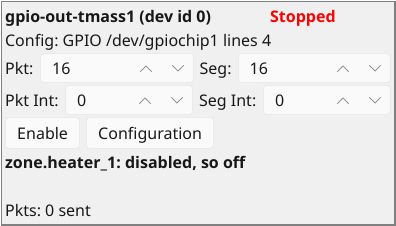
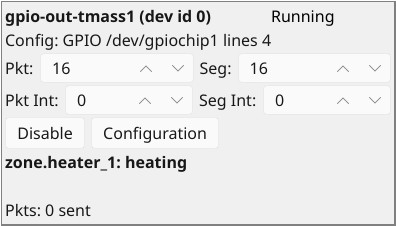
Install no repeated or unused screenshots
rpmlint found two pairs of identical pictures in the tcspecial package.
Stage 5 of "Building a Vehicle" draws as stage 4 does, and the guide
shows no figure of it: screenshots.sh now draws only the stages the
guide has a figure for, so stages 5, 8 and 10 are no longer made or
installed. A disabled heater switched on looks as it did before, so the
tcssim manual says so rather than showing the same panel twice.

Also wrap two lines of fprime/Makefile at 80 columns.

diff --git a/docs/tcssim.html b/docs/tcssim.html
@@ -1213,24 +1213,22 @@ zone's <tt class="docutils literal">heater_1</tt>, so its line names that heater
 button is its power -- it is off whatever it is sent.</p>
 </div>
 </li>
-<li><div class="first figure">
-<img alt="The same panel after the vehicle has switched it on: still Stopped, still zone.heater_1: disabled, so off." src="shots/tcssim-heater-2.png" />
-<p class="caption">tcspecial's thermostat switches it on. Nothing changes on the panel or
-in the zone: a disabled heater stays off. What it was sent is kept.</p>
-</div>
+<li><p class="first">tcspecial's thermostat switches it on. Nothing changes on the panel or in
+the zone, so the panel is drawn as above: a disabled heater stays off.
+What it was sent is kept.</p>
 </li>
 <li><div class="first figure">
-<img alt="The same panel after Enable: Running in black, a Disable button, and the line zone.heater_1: heating." src="shots/tcssim-heater-3.png" />
+<img alt="The same panel after Enable: Running in black, a Disable button, and the line zone.heater_1: heating." src="shots/tcssim-heater-2.png" />
 <p class="caption"><tt class="docutils literal">Enable</tt> pressed. The <tt class="docutils literal">on</tt> it was sent is applied at once --
 <tt class="docutils literal">zone.heater_1: heating</tt> -- rather than at the thermostat's next
 decision, which comes only when the decision changes.</p>
 </div>
 </li>
 <li><div class="first figure">
-<img alt="The same panel after the vehicle has switched it off: Running, and the line zone.heater_1: off." src="shots/tcssim-heater-4.png" />
+<img alt="The same panel after the vehicle has switched it off: Running, and the line zone.heater_1: off." src="shots/tcssim-heater-3.png" />
 <p class="caption">The thermostat switches it off, and the line says
-<tt class="docutils literal">zone.heater_1: off</tt>. A
-heater sends nothing, so its <tt class="docutils literal">Pkts</tt> stays at nought throughout.</p>
+<tt class="docutils literal">zone.heater_1: off</tt>. A heater sends nothing, so its <tt class="docutils literal">Pkts</tt> stays
+at nought throughout.</p>
 </div>
 </li>
 </ol>

diff --git a/tcssim/src/shots.rs b/tcssim/src/shots.rs
@@ -515,12 +515,13 @@ fn screenshots() {
 
     let heater = scene.panel("gpio-out-tmass1").grown(1.0);
     scene.shoot("tcssim-heater-1.png", Some(heater), 1.0);
+    // Switched on while disabled, the panel is unchanged, so that is not
+    // drawn again.
     scene.drive("gpio-out-tmass1", 1);
-    scene.shoot("tcssim-heater-2.png", Some(heater), 1.0);
     scene.press("gpio-out-tmass1", "Enable");
-    scene.shoot("tcssim-heater-3.png", Some(heater), 1.0);
+    scene.shoot("tcssim-heater-2.png", Some(heater), 1.0);
     scene.drive("gpio-out-tmass1", 0);
-    scene.shoot("tcssim-heater-4.png", Some(heater), 1.0);
+    scene.shoot("tcssim-heater-3.png", Some(heater), 1.0);
 
     // Changing the sizes: a packet made smaller than its segment, and put
     // back. The popup that says so hangs under the panel's buttons and

diff --git a/docs/tcssim.rst b/docs/tcssim.rst
@@ -932,14 +932,11 @@ window, drawn without opening it.
       ``gpio-out-tmass2``'s says ``zone.heater_2`` -- and disabled -- its
       button is its power -- it is off whatever it is sent.
 
+#. tcspecial's thermostat switches it on. Nothing changes on the panel or in
+   the zone, so the panel is drawn as above: a disabled heater stays off.
+   What it was sent is kept.
+
 #. .. figure:: shots/tcssim-heater-2.png
-      :alt: The same panel after the vehicle has switched it on: still
-            Stopped, still zone.heater_1: disabled, so off.
-
-      tcspecial's thermostat switches it on. Nothing changes on the panel or
-      in the zone: a disabled heater stays off. What it was sent is kept.
-
-#. .. figure:: shots/tcssim-heater-3.png
       :alt: The same panel after Enable: Running in black, a Disable
             button, and the line zone.heater_1: heating.
 
@@ -947,13 +944,13 @@ window, drawn without opening it.
       ``zone.heater_1: heating`` -- rather than at the thermostat's next
       decision, which comes only when the decision changes.
 
-#. .. figure:: shots/tcssim-heater-4.png
+#. .. figure:: shots/tcssim-heater-3.png
       :alt: The same panel after the vehicle has switched it off: Running,
             and the line zone.heater_1: off.
 
       The thermostat switches it off, and the line says
-      ``zone.heater_1: off``. A
-      heater sends nothing, so its ``Pkts`` stays at nought throughout.
+      ``zone.heater_1: off``. A heater sends nothing, so its ``Pkts`` stays
+      at nought throughout.
 
 **Sizes that cannot be sent**
 
